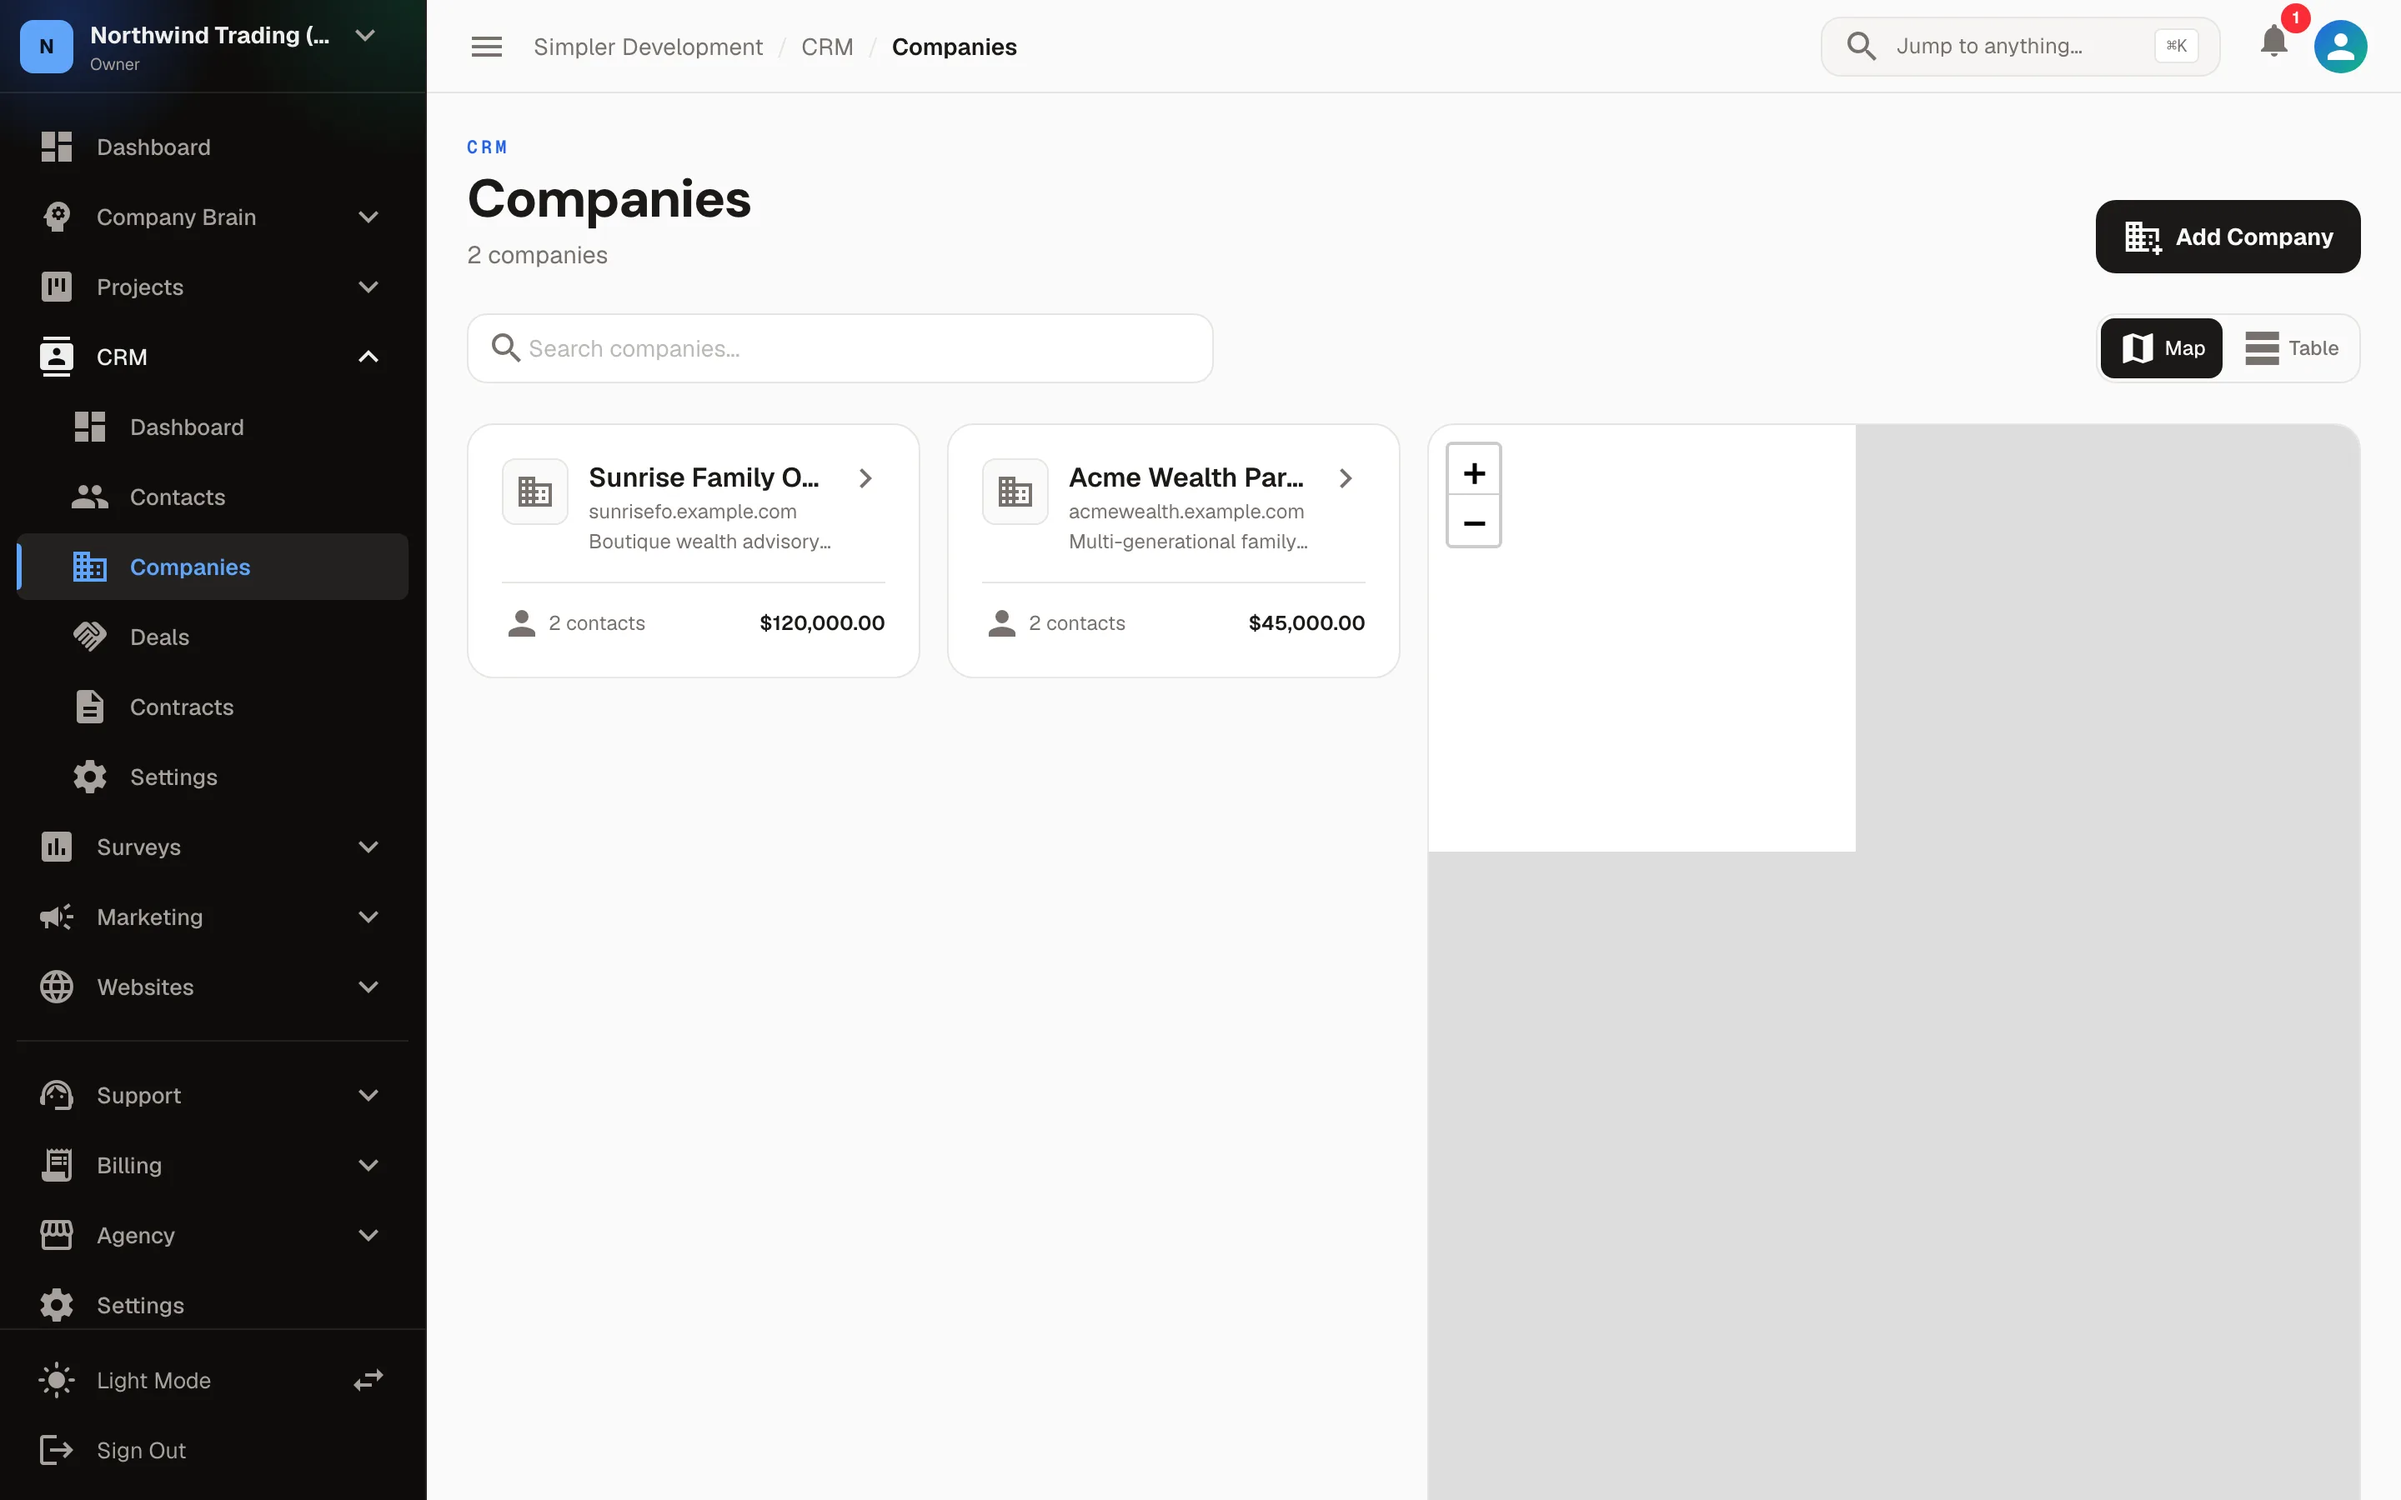
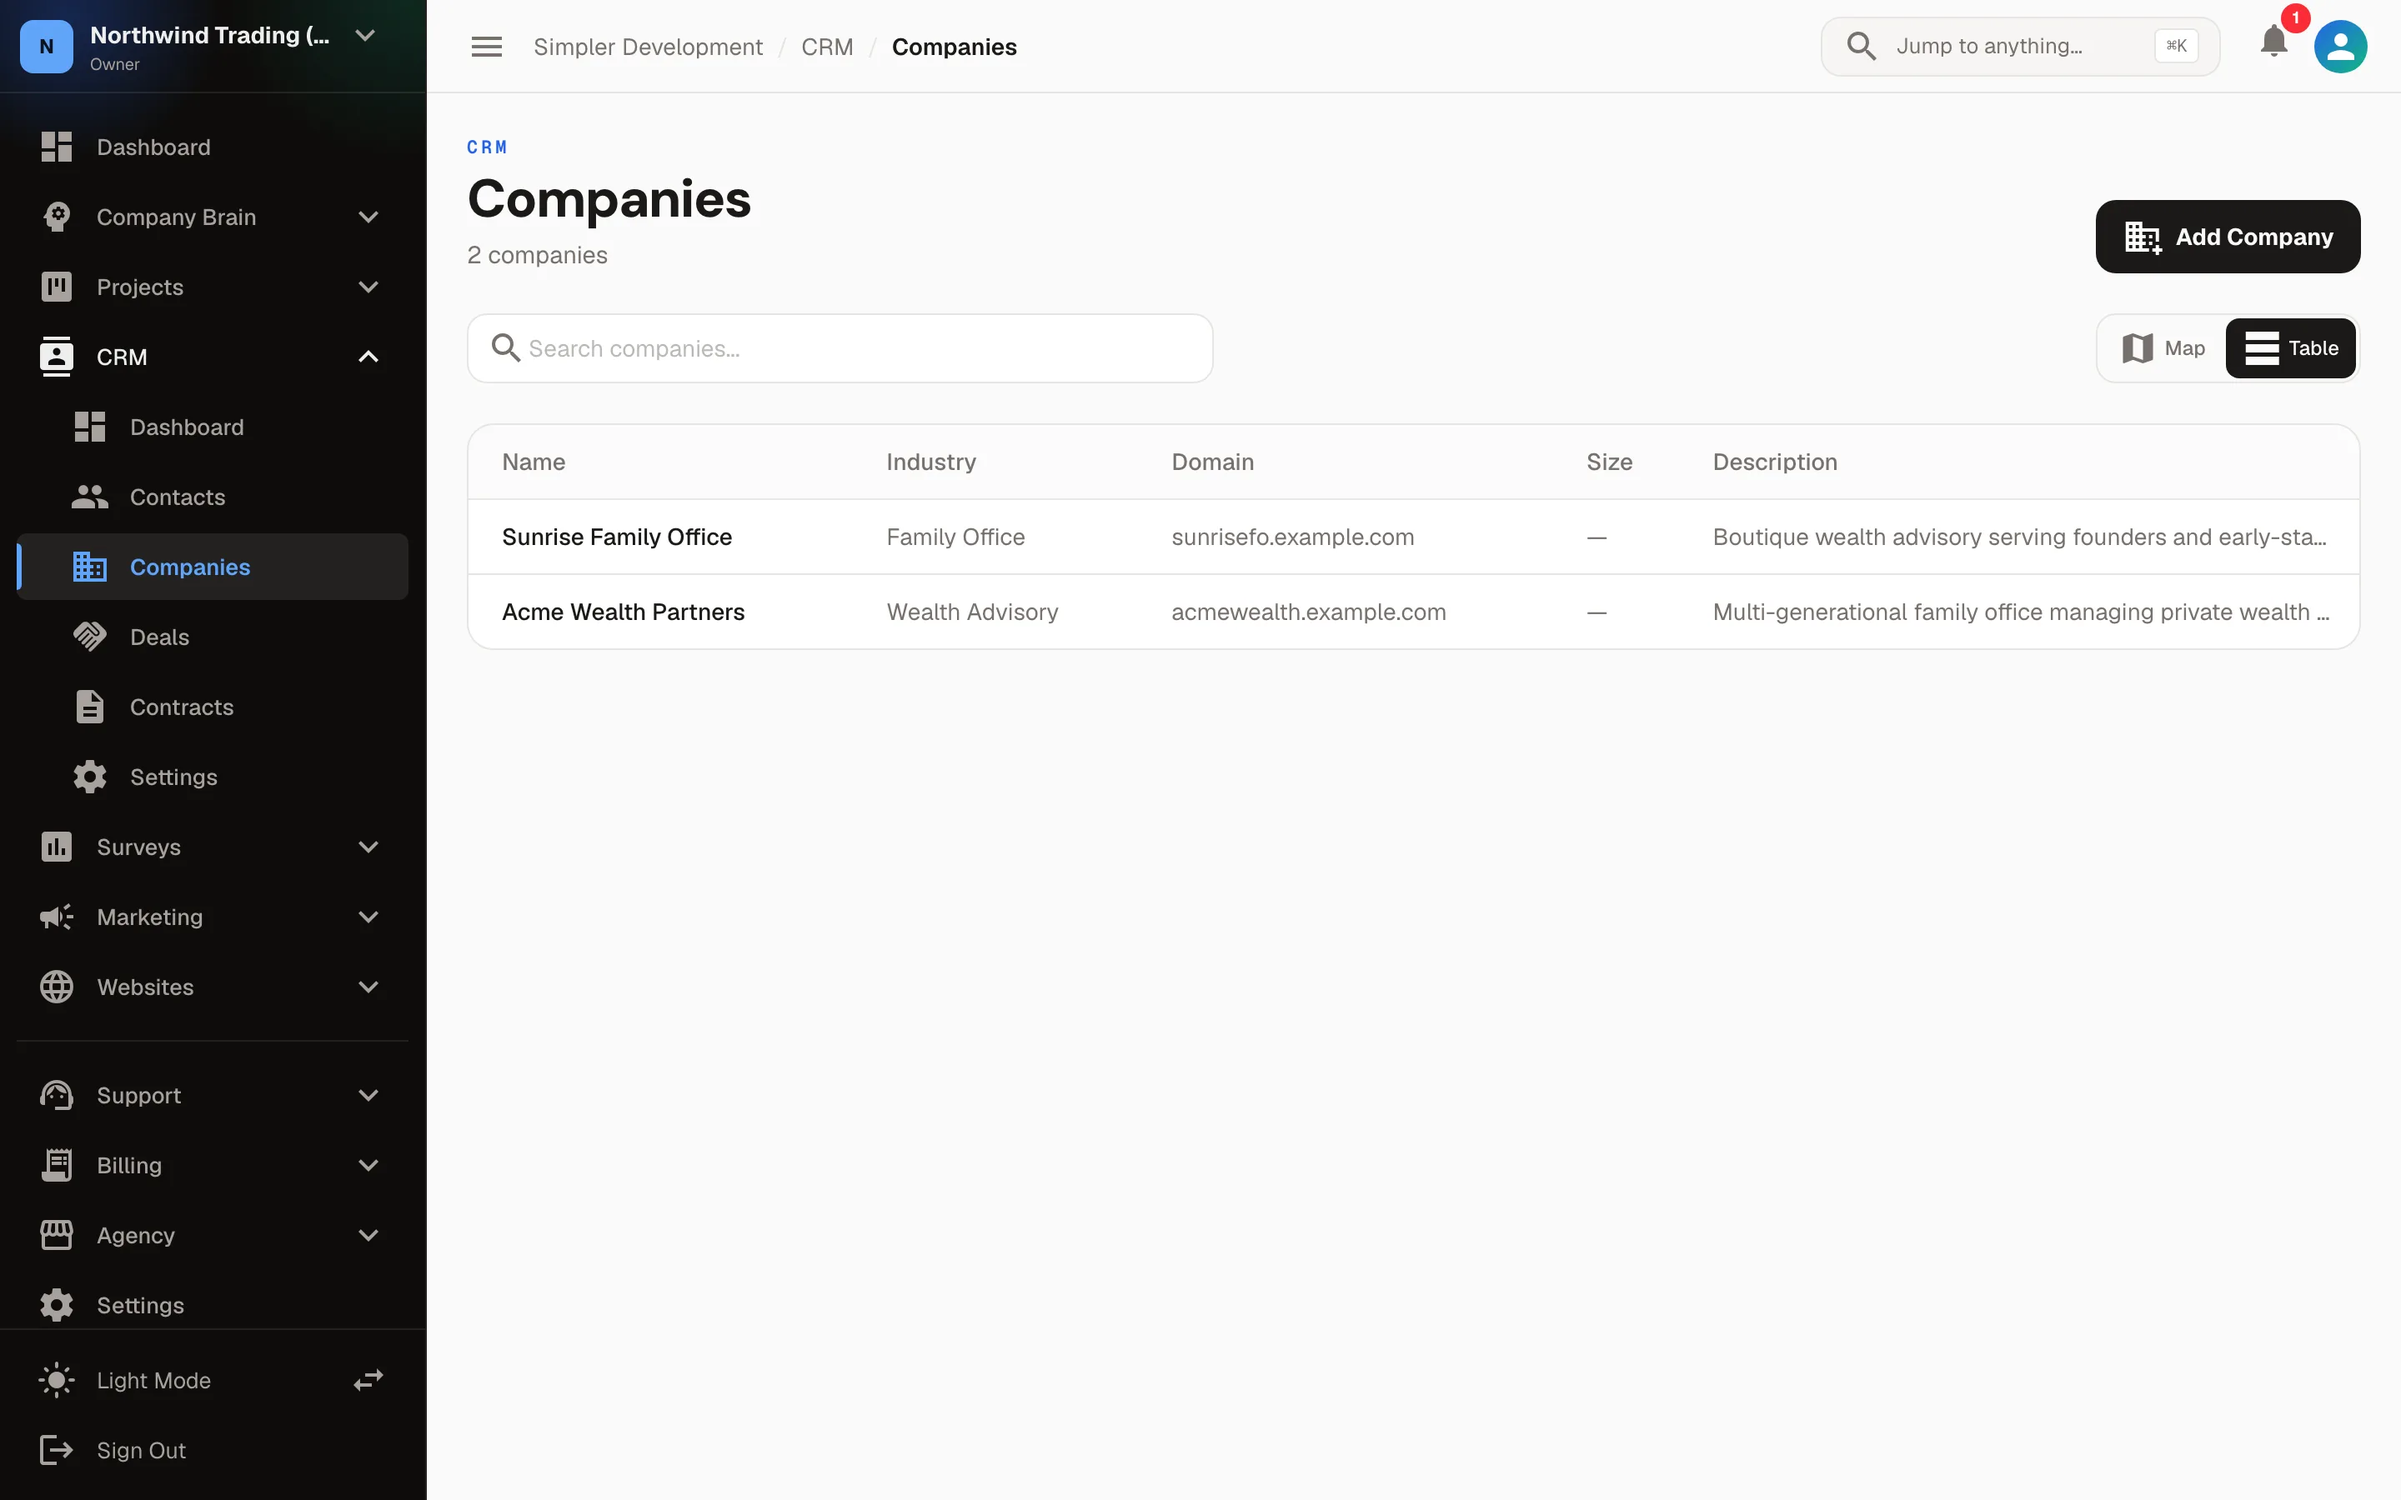
fix(brain): stop one malformed automation action taking down the rules page
formatToolName(action.tool) called .replace() on an untyped JSON field. An
automation_rules row whose actions were written in a different shape — no `tool`
key at all — threw, and because it threw inside the rules .map(), it took the
ENTIRE automations page to an error boundary rather than degrading one chip.
Found when a seeded rule crashed the page during screenshot capture.

Guarded at the definition so all three call sites are covered, plus the sibling
unguarded reads on the same row (`rule.trigger.event`, `rule.actions.length`,
`rule.actions.map`) which fail the same way for the same reason. The declared
AutomationRule type says these are non-optional; the JSON column disagrees.
Kept inside the god-file line baseline rather than re-baselining it upward.

Also fixes the CRM companies screenshot: the map panel filters to companies with
finite lat/lng and early-returns when none qualify, so ungeocoded seed data
photographed as a large grey rectangle beside the cards. The seeder now geocodes
them, and the capture switches that shot to the table view — a marketing image
should not depend on OpenStreetMap tiles loading in a headless browser.

Tokens (approx): ~55k

Claude-Session: https://claude.ai/code/session_016YBwwv29fSv1paX28zjoPi

diff --git a/app/portal/brain/automations/page.tsx b/app/portal/brain/automations/page.tsx
@@ -293,8 +293,8 @@ function getEventScope(event: string | null | undefined): string {
   return 'other';
 }
 
-function formatToolName(tool: string): string {
-  return tool.replace(/_/g, ' ').replace(/\b\w/g, (c) => c.toUpperCase());
+function formatToolName(tool?: string | null): string { // untyped JSON — a row missing `tool` crashed the whole rules list
+  return tool ? tool.replace(/_/g, ' ').replace(/\b\w/g, (c) => c.toUpperCase()) : 'Unknown action';
 }
 
 function timeAgo(dateStr: string): string {
@@ -745,7 +745,7 @@ export default function BrainAutomationsPage() {
             </div>
           ) : (
             rules.map((rule) => {
-              const scope = getEventScope(rule.trigger.event);
+              const scope = getEventScope(rule.trigger?.event ?? '');
               return (
                 <div
                   key={rule.id}
@@ -776,11 +776,11 @@ export default function BrainAutomationsPage() {
                           </span>
                           {rule.schedule
                             ? describeScheduleClient(rule.schedule)
-                            : (EVENT_LABELS[rule.trigger.event] || rule.trigger.event)}
+                            : (EVENT_LABELS[rule.trigger?.event ?? ''] || rule.trigger?.event || 'Unknown trigger')}
                         </span>
                         <span className="flex items-center gap-1">
                           <span className="material-icons text-xs">arrow_forward</span>
-                          {rule.actions.length} action{rule.actions.length !== 1 ? 's' : ''}
+                          {rule.actions?.length ?? 0} action{(rule.actions?.length ?? 0) !== 1 ? 's' : ''}
                         </span>
                         {rule.executionCount > 0 && (
                           <span className="flex items-center gap-1">
@@ -803,7 +803,7 @@ export default function BrainAutomationsPage() {
 
                       {/* Action chips */}
                       <div className="flex flex-wrap gap-1.5 mt-2">
-                        {rule.actions.map((action, i) => (
+                        {(rule.actions ?? []).map((action, i) => (
                           <span
                             key={i}
                             className="text-[10px] font-mono bg-muted px-2 py-0.5 rounded"
@@ -967,7 +967,7 @@ export default function BrainAutomationsPage() {
                         <span className="material-icons text-xs">sensors</span>
                         <span>{EVENT_LABELS[tpl.rule.trigger.event] || tpl.rule.trigger.event}</span>
                         <span className="material-icons text-xs">arrow_forward</span>
-                        <span className="font-mono">{formatToolName(tpl.rule.actions[0].tool)}</span>
+                        <span className="font-mono">{formatToolName(tpl.rule.actions[0]?.tool)}</span>
                       </div>
                       <button
                         onClick={() => handleInstallTemplate(tpl)}

diff --git a/scripts/capture-solution-screenshots.ts b/scripts/capture-solution-screenshots.ts
@@ -43,6 +43,8 @@ type Shot = {
   public?: boolean;
   /** Skip the empty-state audit for a screen that is legitimately a form. */
   allowEmpty?: boolean;
+  /** Click this selector once the page has settled, then re-settle and shoot. */
+  clickBefore?: string;
 };
 
 const shots: Shot[] = [
@@ -85,7 +87,10 @@ const shots: Shot[] = [
   { slug: 'crm', file: '02-contacts', url: '/portal/crm/contacts' },
   { slug: 'crm', file: '03-deals-board', url: '/portal/crm/deals' },
   { slug: 'crm', file: '04-contact-detail', from: '/portal/crm/contacts', linkPrefix: '/portal/crm/contacts/' },
-  { slug: 'crm', file: '05-companies', url: '/portal/crm/companies' },
+  // Table view, not the default Map: the map panel pulls OpenStreetMap tiles,
+  // which do not reliably load in headless capture and photograph as a large
+  // grey rectangle. The table shows the same data with no third-party dependency.
+  { slug: 'crm', file: '05-companies', url: '/portal/crm/companies', clickBefore: 'button[title="Table view"]' },
   // ecommerce — previously captured outside this pipeline at 1x, hence the
   // mismatched legacy chrome in the old gallery.
   { slug: 'ecommerce', file: '01-products', url: '/portal/websites/{siteId}/store/products' },
@@ -300,7 +305,11 @@ async function run() {
       }
 
       if (/\/onboarding|\/login/.test(page.url())) throw new Error(`redirected to ${page.url()}`);
-      const ready = await settle(page);
+      let ready = await settle(page);
+      if (shot.clickBefore) {
+        await page.locator(shot.clickBefore).first().click({ timeout: 15000 }).catch(() => {});
+        ready = await settle(page);
+      }
 
       const violations = AUDIT_ON ? await audit(page, shot) : [];
       if (violations.length) {

diff --git a/scripts/seed-screenshot-gaps.ts b/scripts/seed-screenshot-gaps.ts
@@ -350,6 +350,20 @@ async function main() {
     done.push(`ab_experiments=${Number(rowsOf(r1)[0]?.n ?? 0)}`);
   })();
 
+  /* ── company coordinates (the CRM map panel) ──────────────────────────── */
+  // CompanyMapImpl filters to companies with finite lat/lng and early-returns
+  // when none qualify — so ungeocoded companies render a blank grey map panel
+  // next to the cards, which is ~40% of the CRM screenshot.
+  await db.execute(sql`
+    UPDATE crm_companies SET latitude = 45.5152, longitude = -122.6784
+    WHERE client_id = ${CLIENT_ID} AND latitude IS NULL AND id % 2 = 1
+  `);
+  await db.execute(sql`
+    UPDATE crm_companies SET latitude = 47.6062, longitude = -122.3321
+    WHERE client_id = ${CLIENT_ID} AND latitude IS NULL
+  `);
+  done.push('crm_companies.geocoded');
+
   console.log('SEEDED screenshot gaps →', done.join('  '));
   console.log(`site_id=${siteId} (use SITE_ID=${siteId} for the capture script)`);
 }
